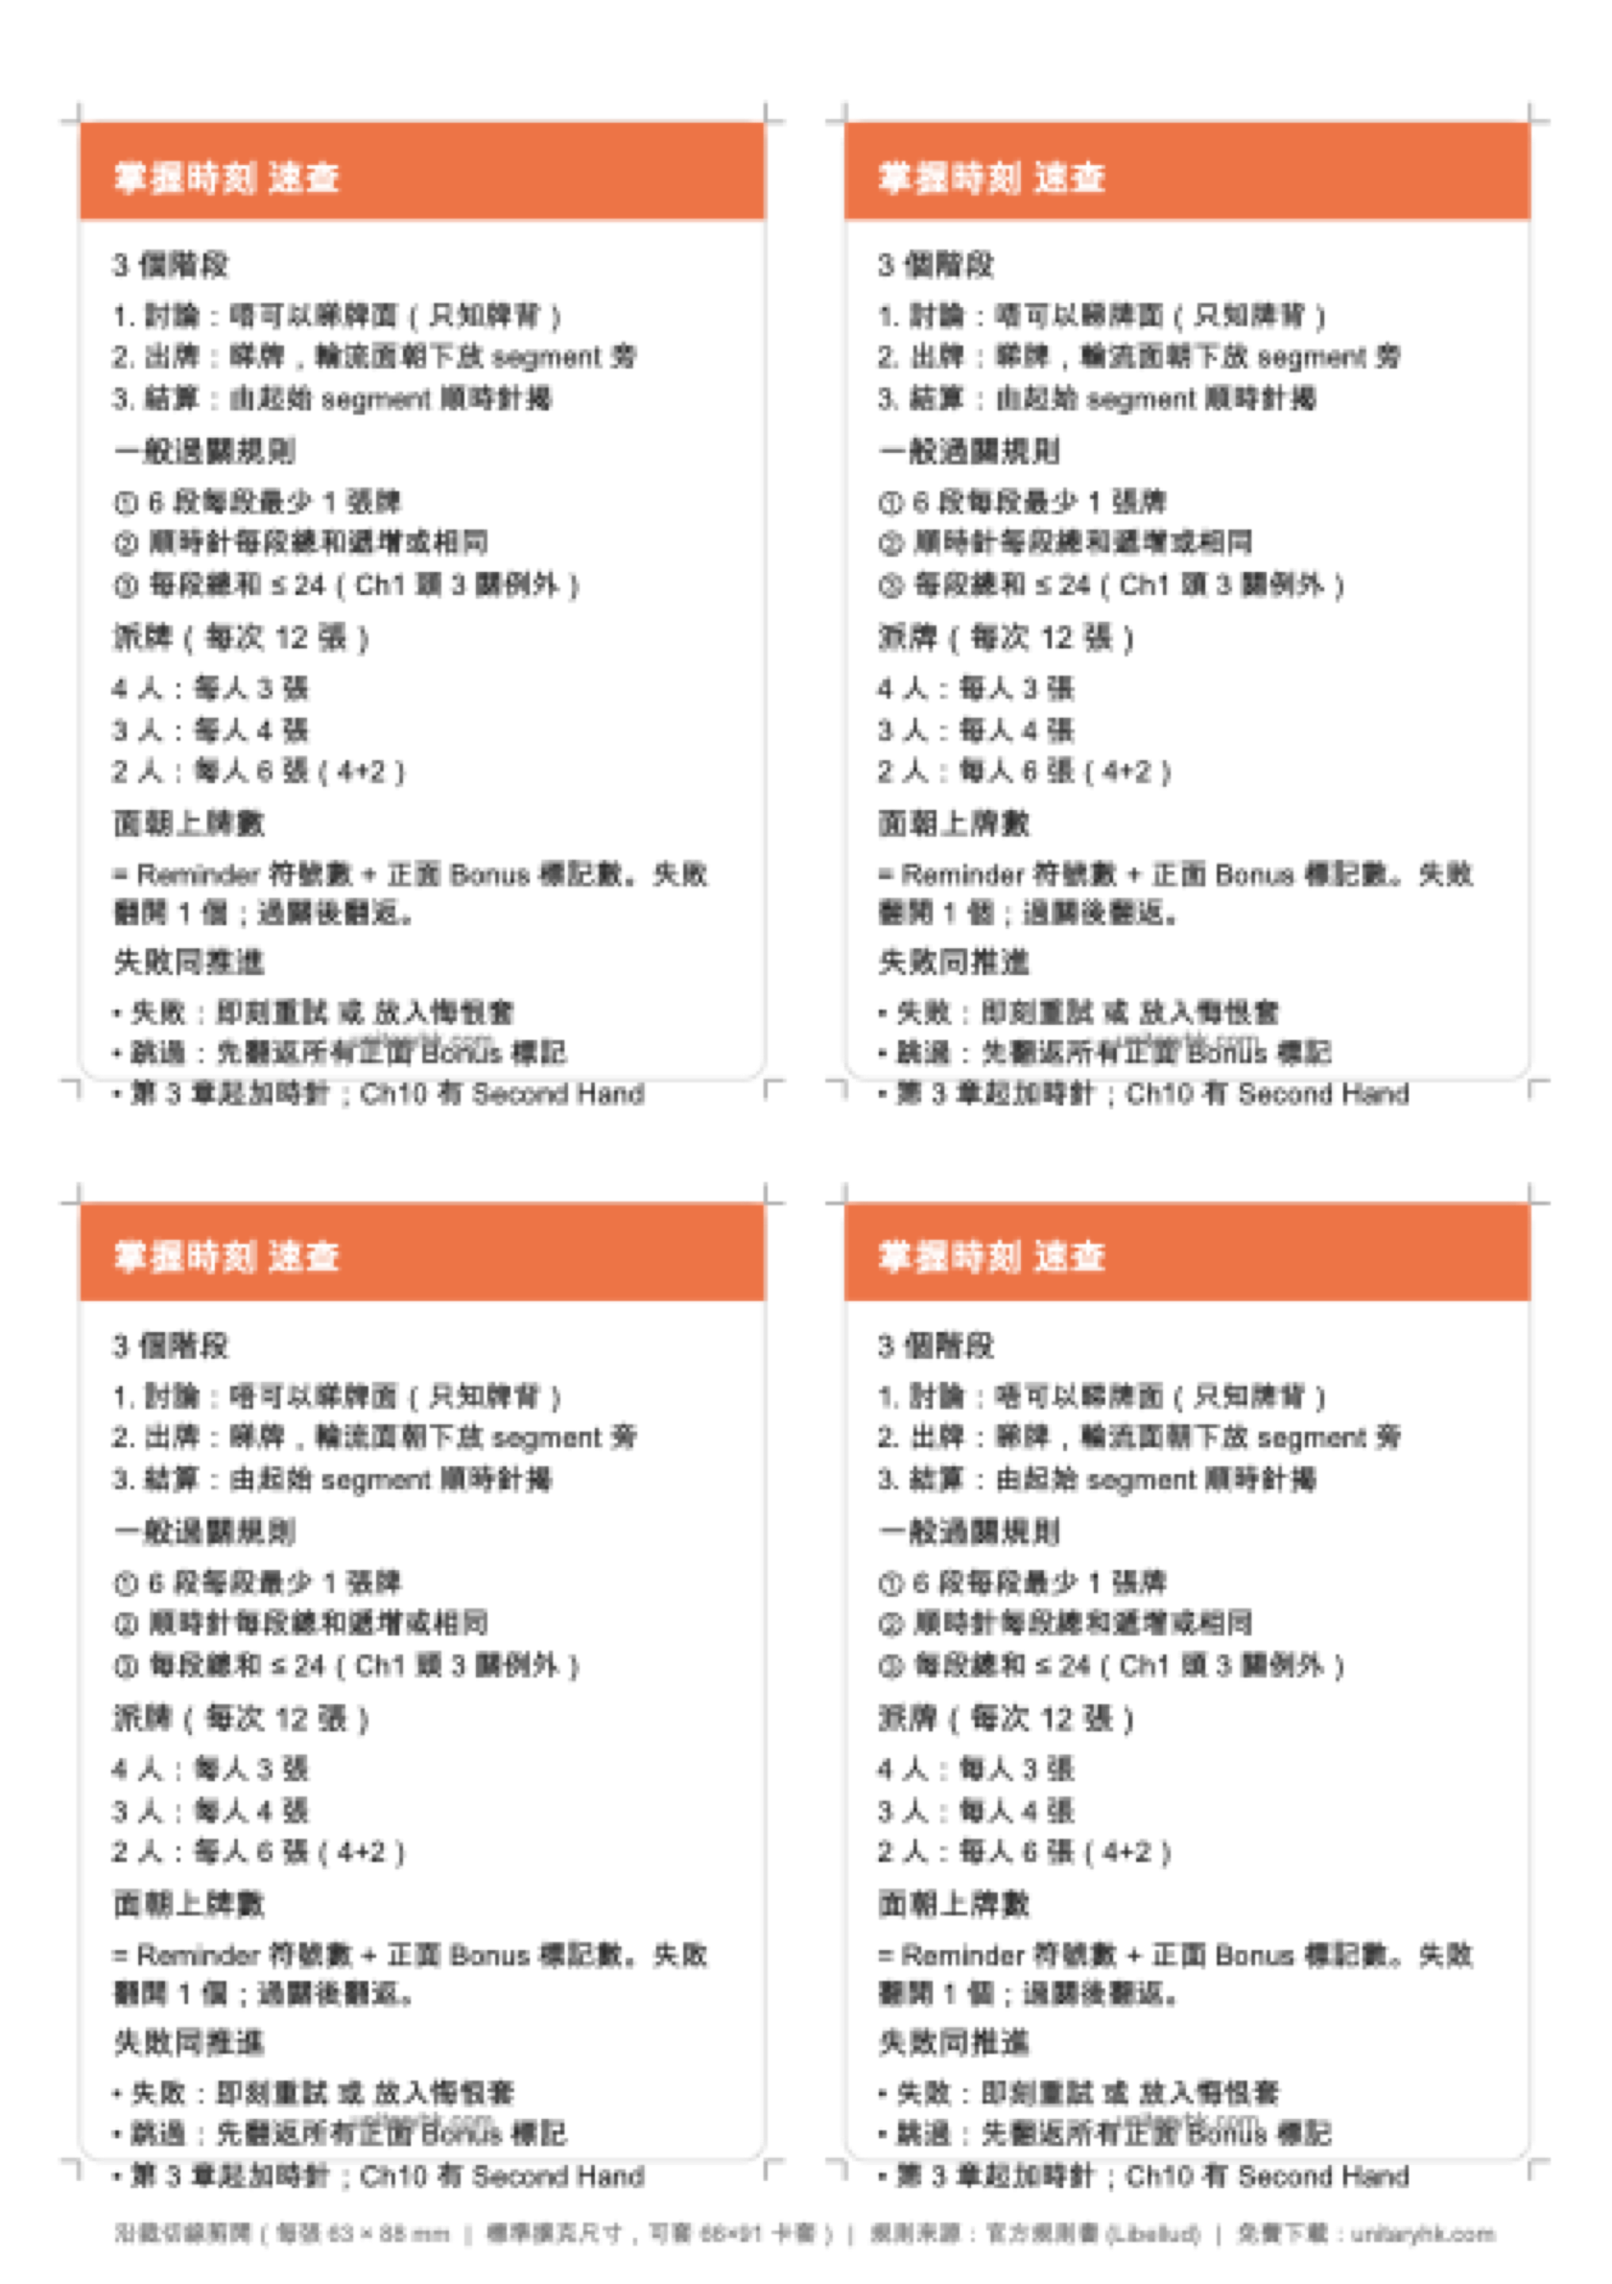
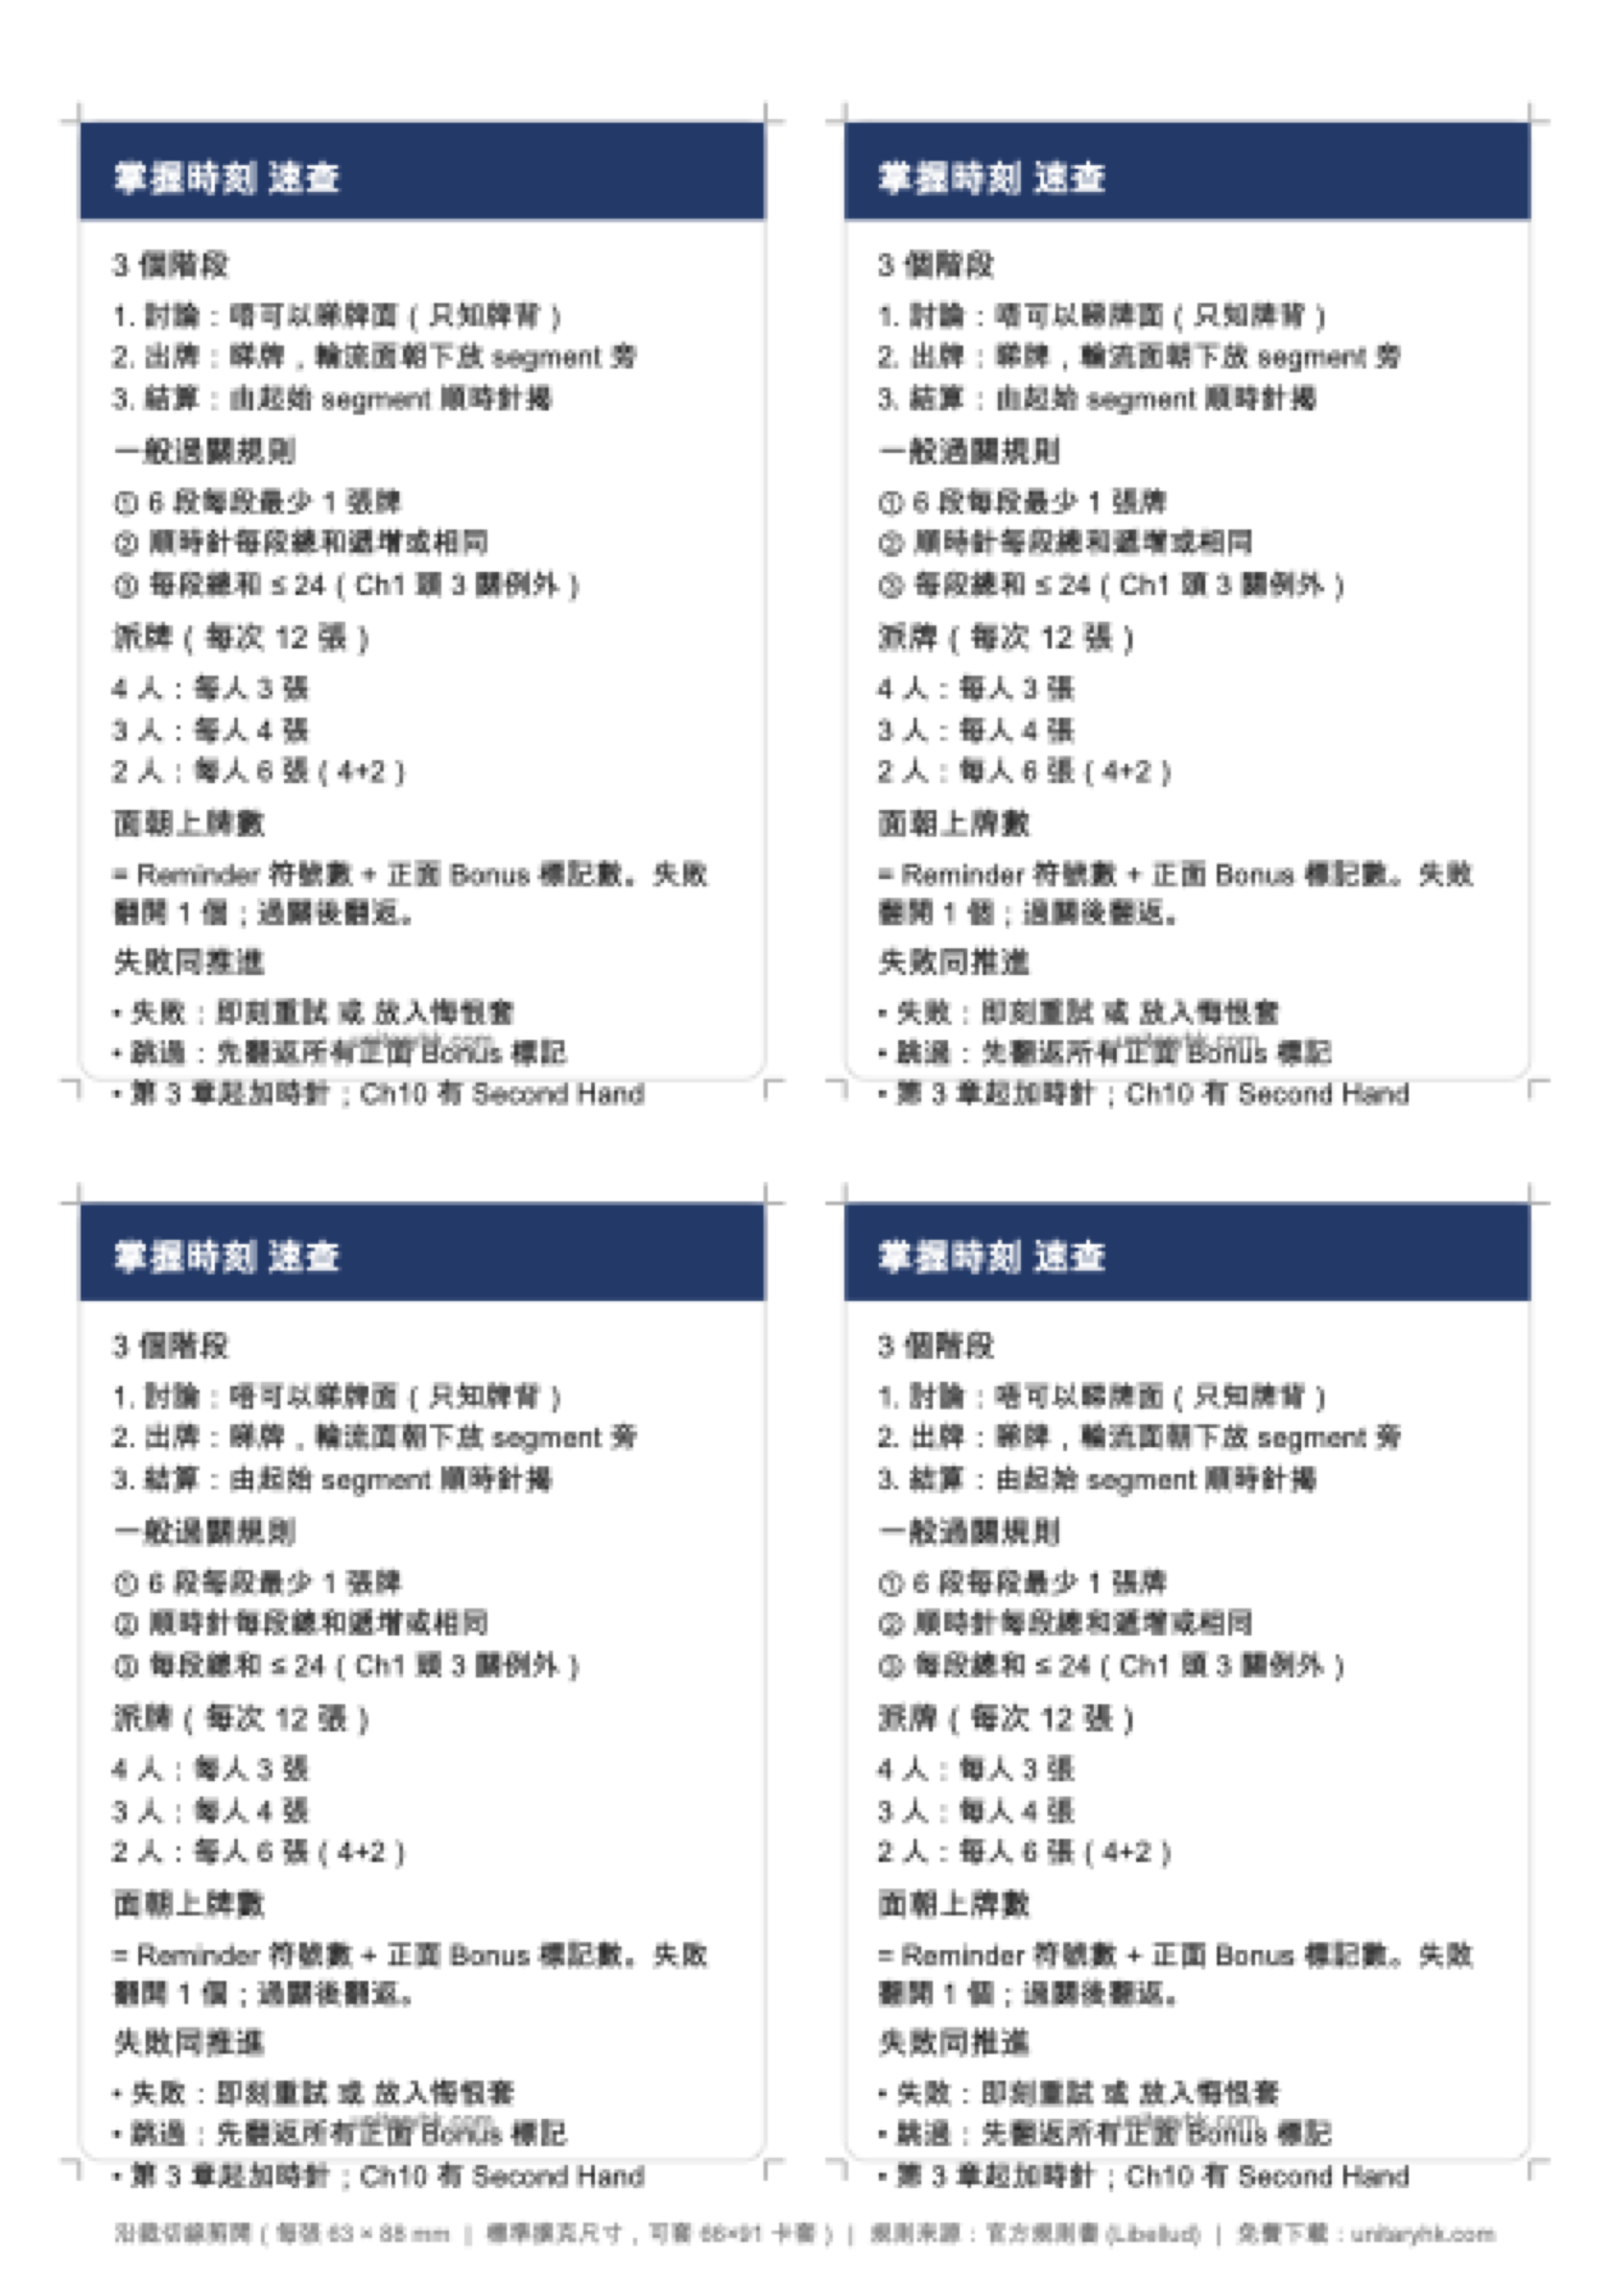
feat: 速查表改 Take Time 配色（深藍+金）+ 加可編輯 SVG 原檔

diff --git a/downloads/index.html b/downloads/index.html
@@ -75,6 +75,15 @@
                 </div>
                 <div class="dl-cta">下載 →</div>
             </a>
+            <a class="dl-card" href="../downloads/take-time-player-aid-a5.svg">
+                <div class="dl-icon">📄</div>
+                <div class="dl-body">
+                    <div class="dl-label">速查表（可編輯 SVG 向量原檔）</div>
+                    <div class="dl-desc">想自己改色／改字？SVG 向量原檔，Illustrator / Figma / Inkscape 都開到。主題色集中喺頂部 5 行 CSS。</div>
+                    <div class="dl-meta">SVG · 8.9 KB · 文字同顏色全部可改</div>
+                </div>
+                <div class="dl-cta">下載 →</div>
+            </a>
             </div>
             <p class="dl-back">← <a href="../board-game/take-time.html">掌握時刻 完整教學</a></p>
         </section>

diff --git a/board-game/index.html b/board-game/index.html
@@ -74,7 +74,7 @@
 
         <div class="game-grid" id="game-grid">
         <a class="game-card" href="take-time.html" data-players="2-4" data-time="30" data-diff="easy" data-type="coop" data-cn="繁中 簡中">
-            <div class="game-card-box"><img src="images/take-time-box.jpg?v=10b9b8e" alt="掌握時刻 盒面" loading="lazy"></div>
+            <div class="game-card-box"><img src="images/take-time-box.jpg?v=6c82fdd" alt="掌握時刻 盒面" loading="lazy"></div>
             <div class="game-card-body">
                 <h3 class="game-card-name-zh">掌握時刻</h3>
                 <p class="game-card-name-en">Take Time</p>

diff --git a/board-game/take-time.html b/board-game/take-time.html
@@ -55,7 +55,7 @@
                     <div class="game-hero-publisher">出版: Libellud (Dixit 同一間)<br>類別: 家庭, 合作, 解謎</div>
                 </div>
                 <div class="game-hero-img">
-                    <figure><img src="images/take-time-box.jpg?v=10b9b8e" alt="掌握時刻 盒面" loading="lazy"></figure>
+                    <figure><img src="images/take-time-box.jpg?v=6c82fdd" alt="掌握時刻 盒面" loading="lazy"></figure>
                 </div>
             </div>
 
